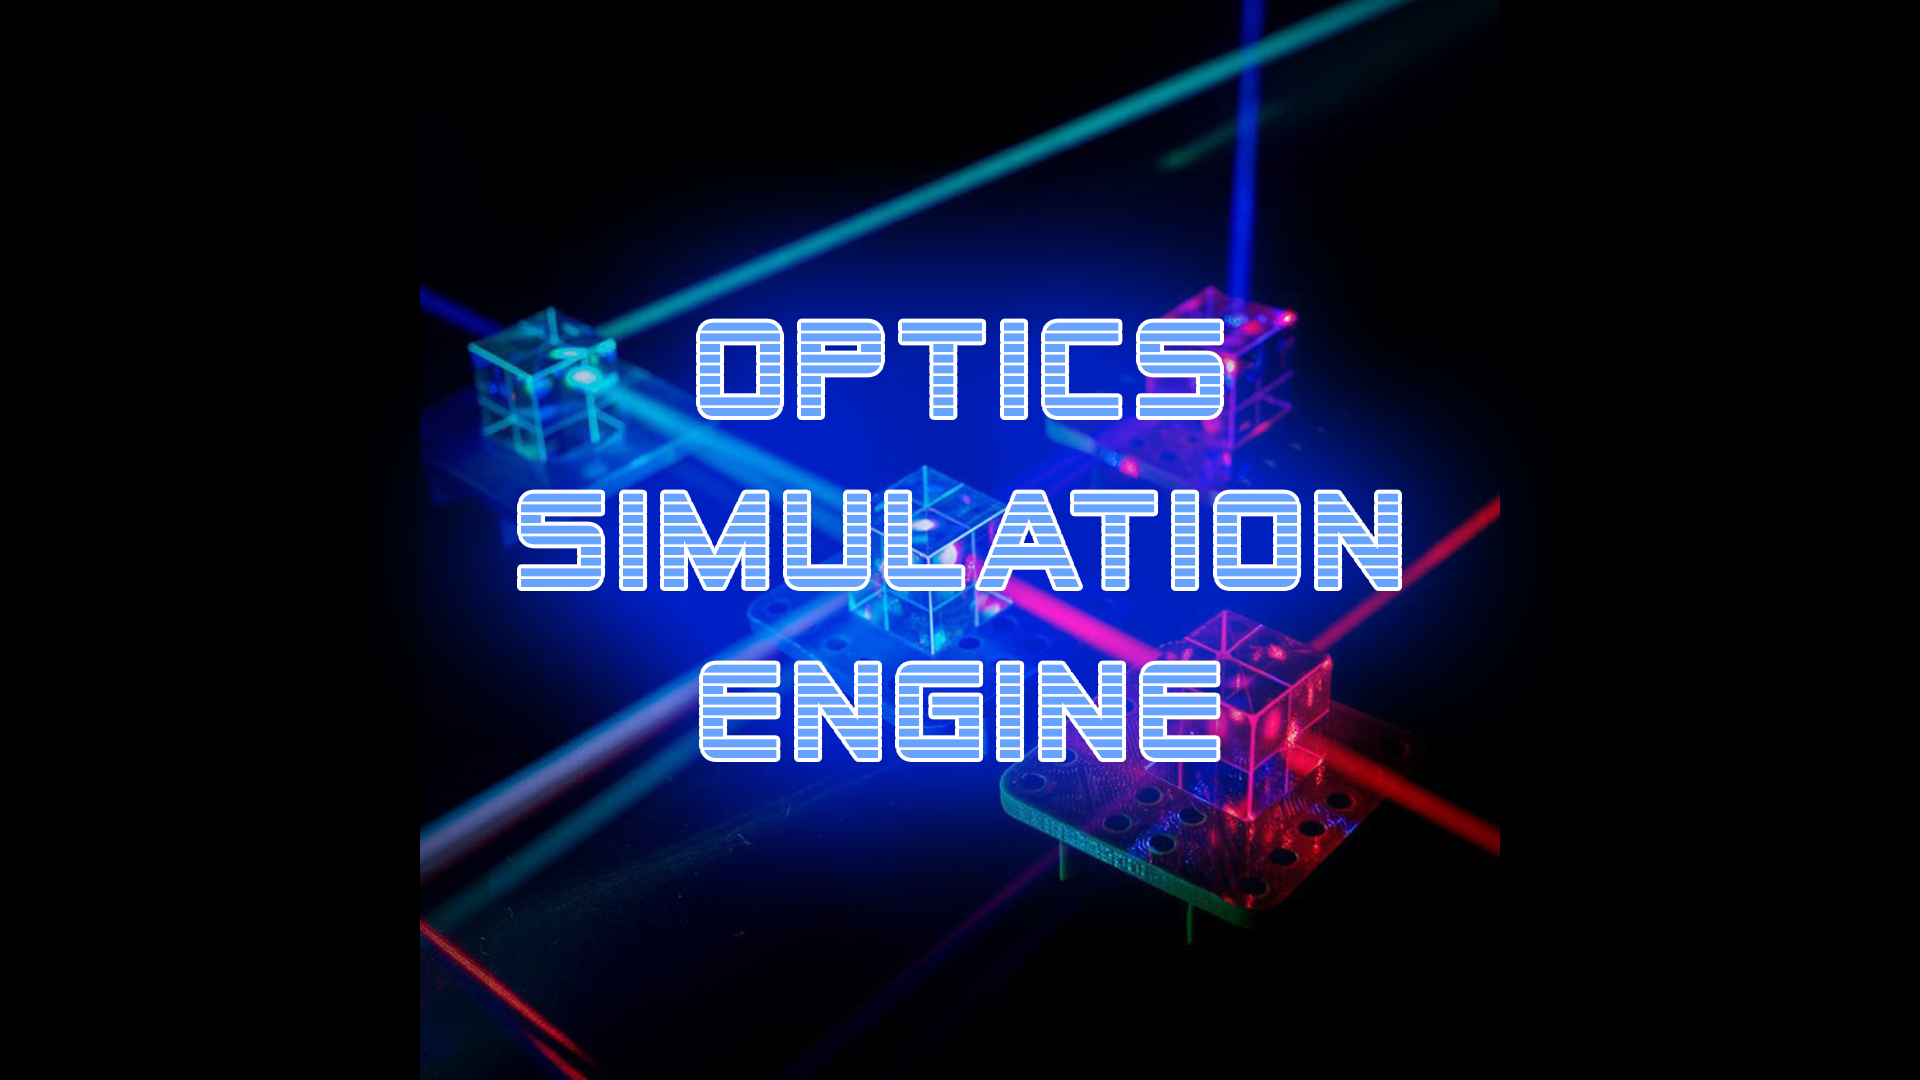
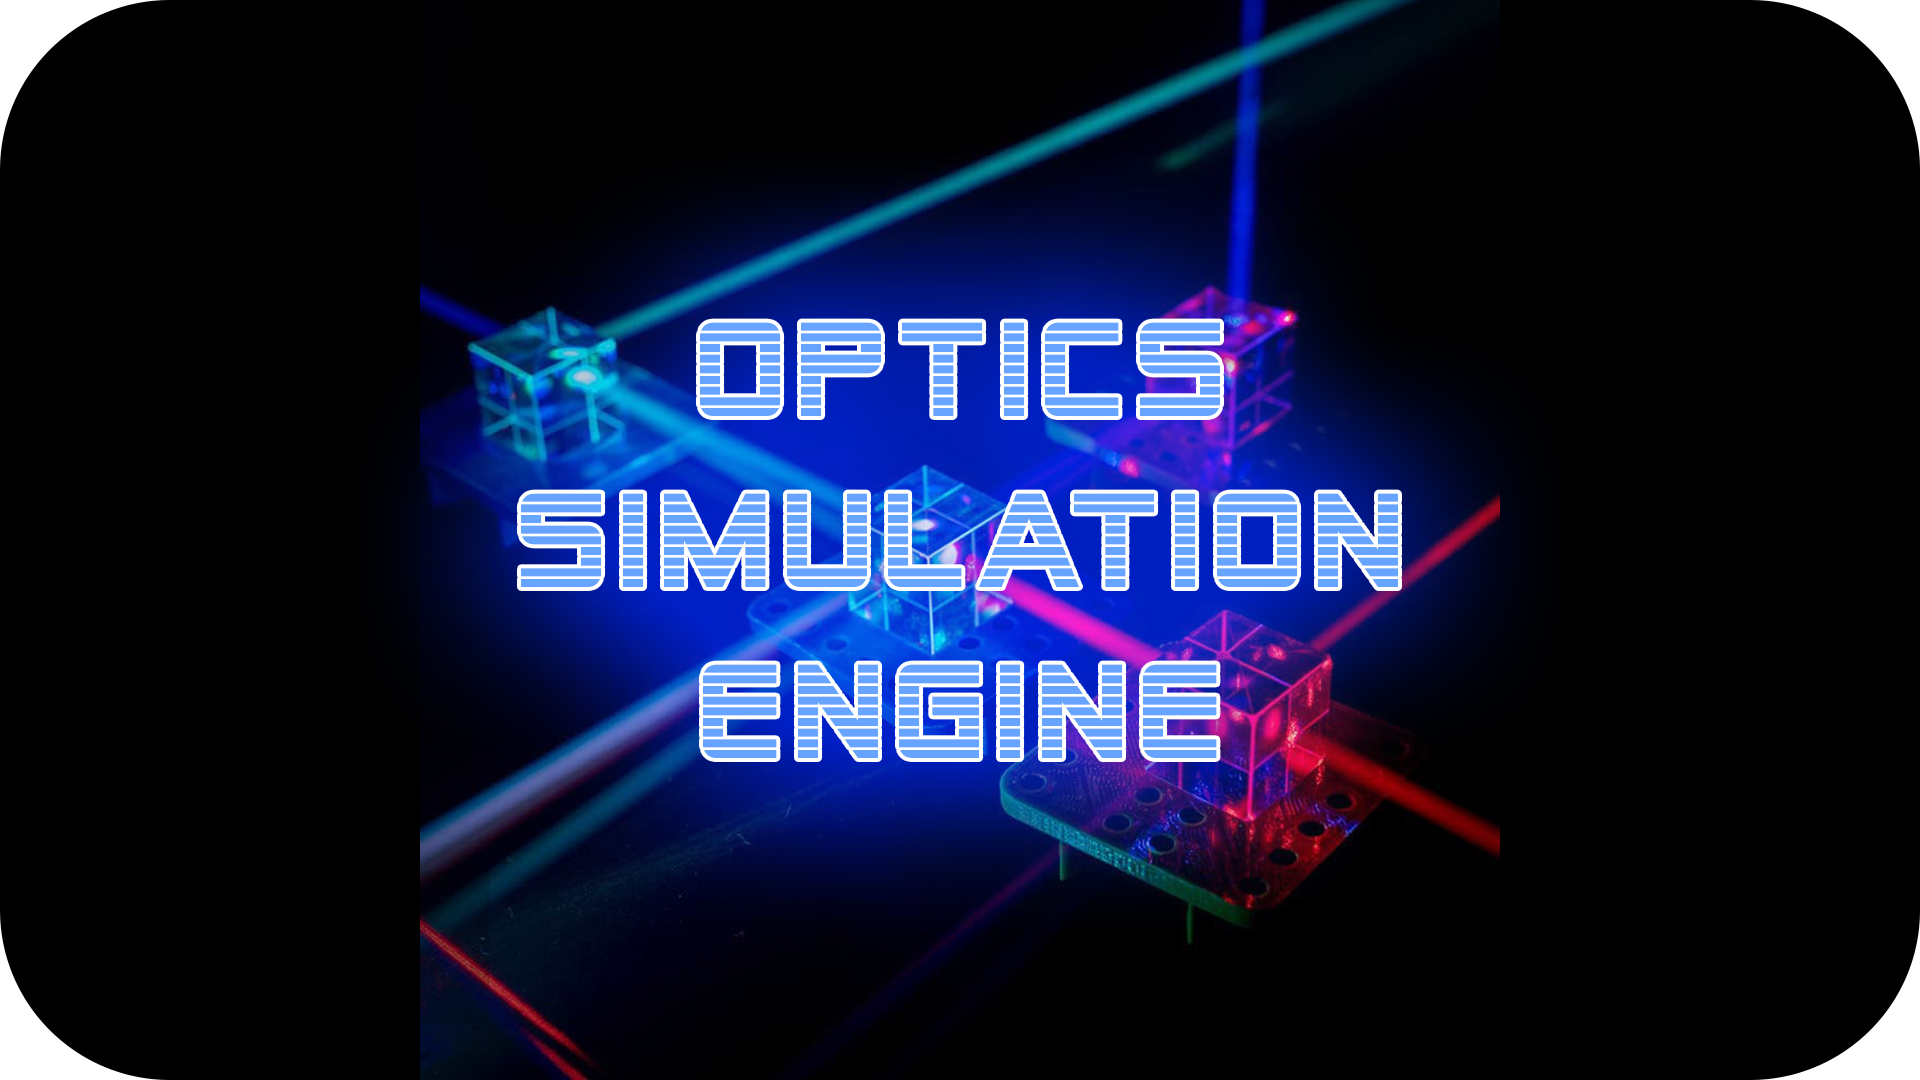
trying rounded wallpaper

diff --git a/optics/optics.js b/optics/optics.js
@@ -1979,8 +1979,8 @@ function render()
             ctx.globalAlpha = map(time, 60, 120, 1, 0);
         }
 
-        ctx.fillStyle = "red";
-        ctx.fillRect(0, 0, 10, 10)
+        ctx.fillStyle = "#000000";
+        ctx.fillRect(0, 0, 1920, 1080)
         ctx.drawImage(wallpaperImage, 0, 0);
     }
 
